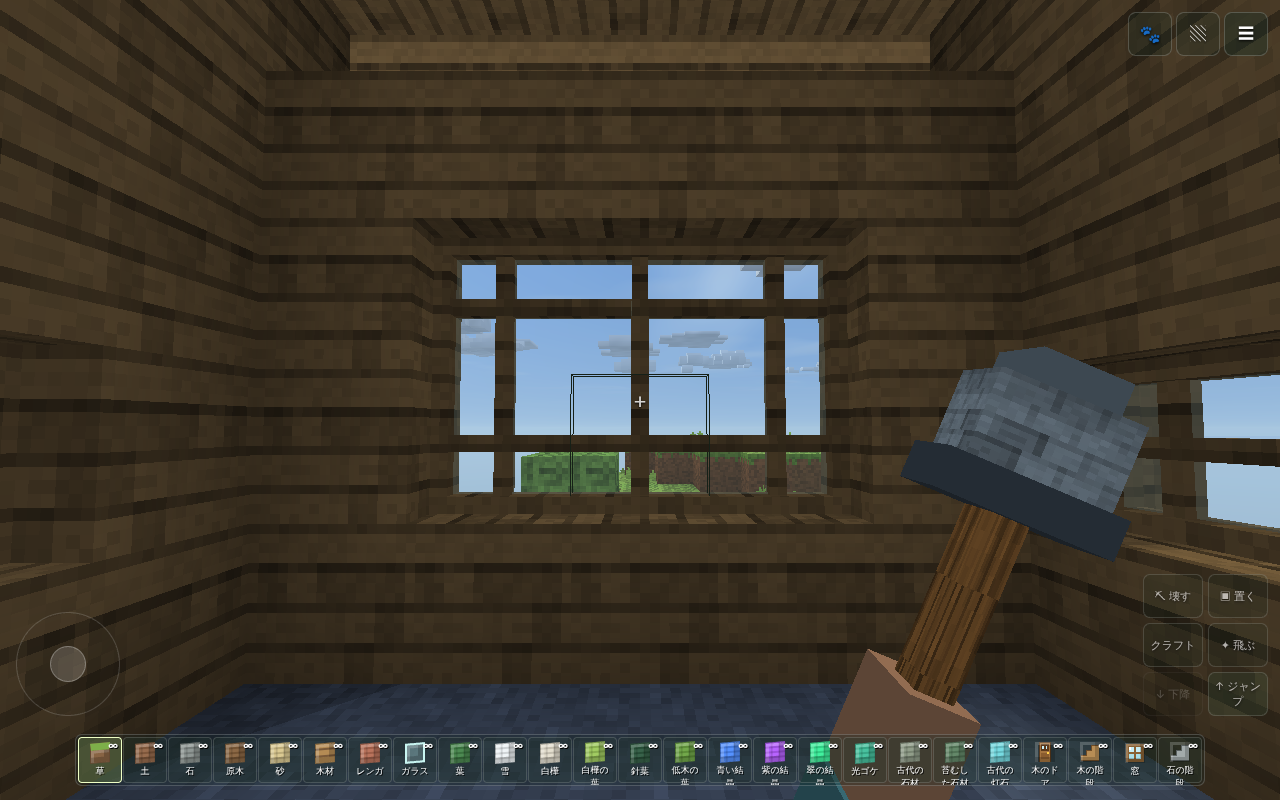
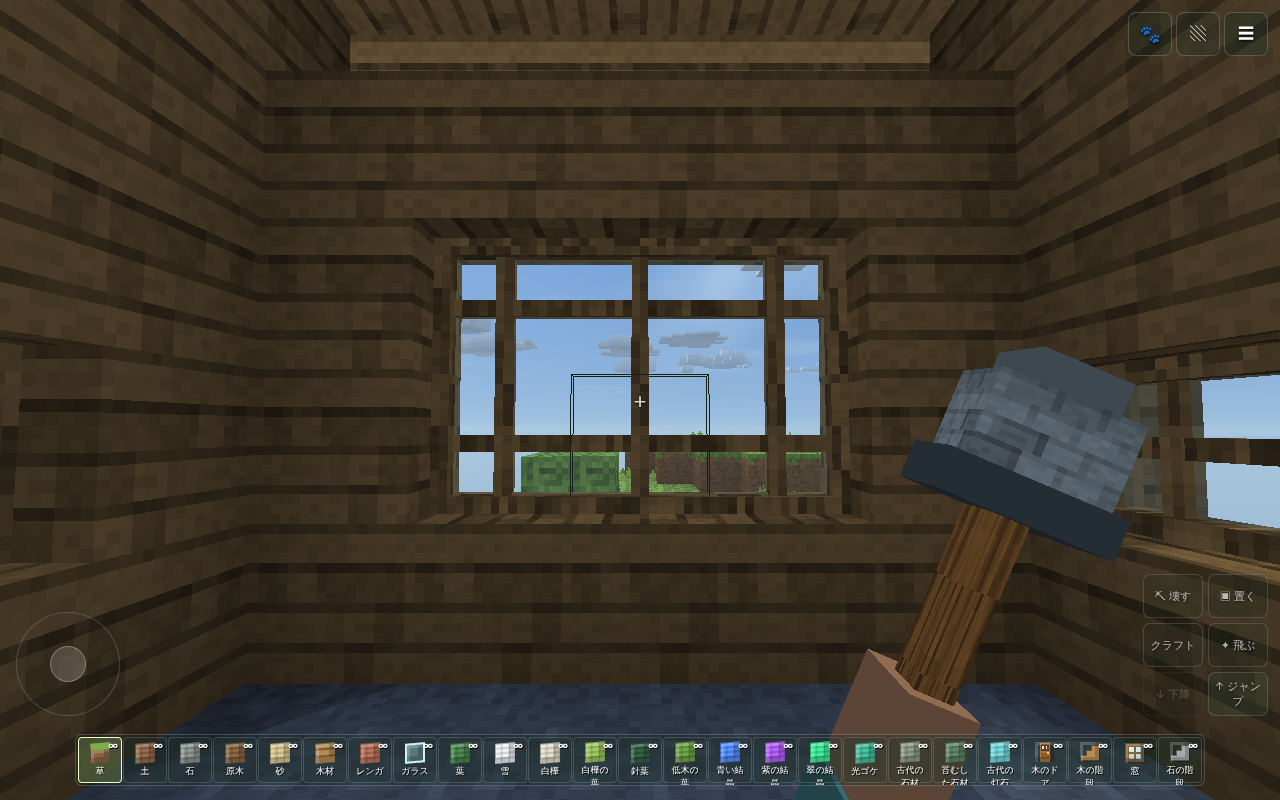
v19 レビュー対応: 設置プレビューの判定・開閉中のドアのガラス・窓の連結メッシュ
- partPreview() が placePart() と同じ判定（持ち物・プレイヤーとの重なり・ドアの床と2マスのすき間・クリエイティブ）を返す。
  判定は読むだけ（partWhy）で、世界・持ち物を変えない。placePart も一時的な set を使わない判定に変更
- 世界の変更（set の回数）でプレビューの形を作り直し、照準枠の転送は狙いか判定が変わった時だけ
- 開閉アニメ中のドアの上のガラスを、専用の小さな半透明バッファでチャンクのガラスの直後に描く
- 窓の列は下枠・上枠・横桟・ガラスを、縦の列は縦桟を1つにまとめて作る（窓512個の壁: 8034→1572面、ガラス512→32枚）
- 枠は木目の材質（4）に変更（長い部品で木材の uv が宝箱/ドアの変種を選ぶのを防ぐ）
- 回帰テスト追加。窓をまとめたことで「連結した窓はガラス1枚」に v19 テストの期待値を更新
- README 更新、スクリーンショット追加（Chromium/SwiftShader、実機未検証）

Claude-Session: https://claude.ai/code/session_01Y6tbdL5nLV1G9HMr3sUMLf

diff --git a/index.html b/index.html
@@ -273,7 +273,7 @@ const defs=[null,['草','#72a542'],['土','#916444'],['石','#89918e'],['原木'
 // ---- v19 BUILDING PARTS: doors, stairs and windows. Every orientation and state is its own block id, so the voxel bytes, the saved
 // `changes` and chunk streaming stay as they were: 41-44 wooden stairs and 45-48 stone stairs (facing 0 +z, 1 +x, 2 -z, 3 -x = the way up),
 // 49/50 windows (pane across x / across z), 51-66 doors (51 + facing*4 + open*2 + upper half). The first id of each group is the item.
-const B_STAIR_W=41,B_STAIR_S=45,B_WINDOW=49,B_DOOR=51,PART_LAST=66;
+const B_STAIR_W=41,B_STAIR_S=45,B_WINDOW=49,B_DOOR=51,PART_LAST=66;let worldStamp=0; // counts set() calls, so the placement preview notices edits
 for(let t=41;t<=PART_LAST;t++)defs[t]=t<45?['木の階段','#b78d55']:t<49?['石の階段','#89918e']:t<51?['窓','#afdce0']:['木のドア','#9a6a3c'];
 // PART: 1 stairs, 2 window, 3 door. Stairs count as cover (roofs, corner shade); thin windows and doors do not.
 const PART=new Uint8Array(256),OCC=new Uint8Array(256);for(let t=1;t<256;t++)OCC[t]=t!==9&&t!==10;
@@ -391,7 +391,7 @@ const chunkKey=(x,z)=>Math.floor(x/CHUNK)+','+Math.floor(z/CHUNK);
 const localIdx=(x,y,z)=>(y*CHUNK+(z&15))*CHUNK+(x&15);
 let lastCX=-1,lastCZ=-1,lastData=null;
 function get(x,y,z){if(!inside(x,y,z))return 0;const cx=x>>4,cz=z>>4;if(cx!==lastCX||cz!==lastCZ||!lastData){lastData=voxelChunk(cx,cz);lastCX=cx;lastCZ=cz}return lastData[localIdx(x,y,z)]}
-function set(x,y,z,t){if(!inside(x,y,z))return;const i=idx(x,y,z),key=chunkKey(x,z);if(!changes.has(i)){let list=changeIndex.get(key);if(!list)changeIndex.set(key,list=[]);list.push(i)}changes.set(i,t);const data=blocks.get(key);if(data)data[localIdx(x,y,z)]=t;if(CAVES){if(isGlowBlock(t))glowChunks.add(key);if(glowChunks.has(key))glowCache.delete(key)}}
+function set(x,y,z,t){if(!inside(x,y,z))return;worldStamp++;const i=idx(x,y,z),key=chunkKey(x,z);if(!changes.has(i)){let list=changeIndex.get(key);if(!list)changeIndex.set(key,list=[]);list.push(i)}changes.set(i,t);const data=blocks.get(key);if(data)data[localIdx(x,y,z)]=t;if(CAVES){if(isGlowBlock(t))glowChunks.add(key);if(glowChunks.has(key))glowCache.delete(key)}}
 function solid(x,y,z){const t=get(x,y,z);return t!==0&&t!==10}
 function rand(x,z){let n=Math.imul(x+seed,374761393)^Math.imul(z,668265263);n=Math.imul(n^(n>>>13),1274126177);return((n^(n>>>16))>>>0)/4294967295}
 function noise(x,z,s){const a=Math.floor(x/s),b=Math.floor(z/s);let u=x/s-a,v=z/s-b;u=u*u*(3-2*u);v=v*v*(3-2*v);return(rand(a,b)*(1-u)+rand(a+1,b)*u)*(1-v)+(rand(a,b+1)*(1-u)+rand(a+1,b+1)*u)*v}
@@ -2208,7 +2208,7 @@ void main(){vec2 q=floor(mp.xy+.001);float n=hash(q+floor(mp.z)*.13);vec3 c=col;
  c=cL.y>=0.?mix(c,vec3(1.,.98,.92),cL.y):mix(c,vec3(1.,.16,.1),-cL.y*.7);
  if(w.y<${SEA}.88){float ds=${SEA}.88-w.y;c*=exp(-WABS*(ds+(eyeF.y>${SEA}.88?ds/max(-v.y,.1):0.))*(1.-cL.w));}
  gl_FragColor=vec4(fogMix(c,rel,w.y),alpha);}`;
-let lifeProg=null,lifeU=null,lifeBuffer=null,fishBuffer=null,mainProg,waterProg,lodProg,skyProg,mainU,waterU,lodU,skyU,lodOK=false,renderReady=false,quadIndex,skyBuffer,outline,dynamicBuffer,toolBuffer,cloudBuffer,oceanTiles=[];
+let lifeProg=null,lifeU=null,lifeBuffer=null,fishBuffer=null,mainProg,waterProg,lodProg,skyProg,mainU,waterU,lodU,skyU,lodOK=false,renderReady=false,quadIndex,skyBuffer,outline,dynamicBuffer,doorGlassBuffer,toolBuffer,cloudBuffer,oceanTiles=[];
 function shader(type,src){const s=gl.createShader(type);gl.shaderSource(s,src);gl.compileShader(s);if(!gl.getShaderParameter(s,gl.COMPILE_STATUS)){const message=gl.getShaderInfoLog(s);gl.deleteShader(s);throw Error(message)}return s}
 function buildProgram(vsrc,fsrc,attribs){
  const p=gl.createProgram();let vs=null,fs=null,linked=false;
@@ -2239,7 +2239,7 @@ function initRenderer(){
  const ind=new Uint16Array(MAXQ*6);for(let i=0;i<MAXQ;i++)ind.set([i*4,i*4+1,i*4+2,i*4,i*4+2,i*4+3],i*6);
  quadIndex=gl.createBuffer();gl.bindBuffer(gl.ELEMENT_ARRAY_BUFFER,quadIndex);gl.bufferData(gl.ELEMENT_ARRAY_BUFFER,ind,gl.STATIC_DRAW);
  skyBuffer=gl.createBuffer();gl.bindBuffer(gl.ARRAY_BUFFER,skyBuffer);gl.bufferData(gl.ARRAY_BUFFER,new Float32Array([-1,-1,3,-1,-1,3]),gl.STATIC_DRAW);
- outline=gl.createBuffer();dynamicBuffer=gl.createBuffer();toolBuffer=gl.createBuffer();cloudBuffer=null;
+ outline=gl.createBuffer();dynamicBuffer=gl.createBuffer();doorGlassBuffer=gl.createBuffer();toolBuffer=gl.createBuffer();cloudBuffer=null;
  gl.enable(gl.DEPTH_TEST);
  if(lodOK)buildOcean();
  renderReady=true;
@@ -2471,19 +2471,29 @@ function emitPart(t,wx,y,wz,p,col,gb){const k=PART[t];let base=roofs[col]>y?256:
   boxQuads(opaqueW,wx,y,wz,[0,0,0,1,.5,1],mat,c,base,partCull(p,[0,0,0,1,.5,1])|join|4);
   boxQuads(opaqueW,wx,y,wz,d===0?[0,0,0,1,.5,.5]:d===1?[0,0,0,.5,.5,1]:d===2?[0,0,.5,1,.5,1]:[.5,0,0,1,.5,1],mat,c,base,59);
   boxQuads(opaqueW,wx,y,wz,B[1],mat,c,base,partCull(p,B[1])|join|8)}
- else if(k===2){const ax=t-B_WINDOW,sO=ax?PW:1,sN=ax?5:1,sP=ax?4:0,F1=2/16,P0=6/16,P1=10/16,M0=7/16,M1=9/16;
-  // A window joins the same window beside, above and below it: frames stay only on the outside, every cell keeps its cross.
-  const L=pad[p-sO]===t,R=pad[p+sO]===t,D=pad[p-PA]===t,U=pad[p+PA]===t,sL=L?0:F1,sR=R?1:1-F1,yB=D?0:F1,yT=U?1:1-F1;
-  const put=(s0,y0,q0,s1,y1,q1,sk)=>{const b=ax?[q0,y0,s0,q1,y1,s1]:[s0,y0,q0,s1,y1,q1];boxQuads(opaqueW,wx,y,wz,b,7,WFRAME,base,sk|partCull(p,b))},ends=(a,b)=>(a?1<<sN:0)|(b?1<<sP:0);
+ else if(k===2){const ax=t-B_WINDOW,sO=ax?PW:1,sN=ax?5:1,sP=ax?4:0,F1=2/16,P0=6/16,P1=10/16,M0=7/16,M1=9/16,H0=7.25/16,H1=8.75/16,ls=ax?wz&15:wx&15;
+  // A window joins the same window beside, above and below it: frames stay only on the outside. Along a row (inside this chunk) the sill,
+  // the head, the middle bar and the glass are one long piece started by the row's first cell, and a column shares one upright bar,
+  // so a wall of windows costs about as much as its outline.
+  const L=pad[p-sO]===t,R=pad[p+sO]===t,D=pad[p-PA]===t,U=pad[p+PA]===t,sL=L?0:F1,yB=D?0:F1,yT=U?1:1-F1;
+  // Frames use the wood-grain material (4): it tiles over any length, while plank uv beyond one block selects the chest/door variants.
+  const put=(s0,y0,q0,s1,y1,q1,sk,one=true)=>{const b=ax?[q0,y0,s0,q1,y1,s1]:[s0,y0,q0,s1,y1,q1];boxQuads(opaqueW,wx,y,wz,b,4,WFRAME,base,one?sk|partCull(p,b):sk)},ends=(a,b)=>(a?1<<sN:0)|(b?1<<sP:0);
+  // run(ok): how many cells from here along +s keep this window and satisfy ok(pad index); end = where the last one's piece stops
+  const run=ok=>{let n=1;while(ls+n<16&&pad[p+n*sO]===t&&ok(p+n*sO))n++;const q=p+(n-1)*sO;return{n,q,end:n-1+(pad[q+sO]===t?1:1-F1)}},any=()=>true;
   if(!L)put(0,0,P0,F1,1,P1,(D&&pad[p-PA-sO]!==t?8:0)|(U&&pad[p+PA-sO]!==t?4:0));
   if(!R)put(1-F1,0,P0,1,1,P1,(D&&pad[p-PA+sO]!==t?8:0)|(U&&pad[p+PA+sO]!==t?4:0));
-  if(!D)put(sL,0,P0,sR,F1,P1,ends(!L||pad[p-sO-PA]!==t,!R||pad[p+sO-PA]!==t));
-  if(!U)put(sL,1-F1,P0,sR,1,P1,ends(!L||pad[p-sO+PA]!==t,!R||pad[p+sO+PA]!==t));
-  // the cross bars are decoration: low quality leaves them out (switching quality re-meshes chunks with reefShafts, the same Q.water flag)
-  if(Q.water>=1){put(M0,yB,M0,M1,yT,M1,12);put(sL,M0,M0,M0,M1,M1,ends(1,1));put(M1,M0,M0,sR,M1,M1,ends(1,1))}
-  // one glass sheet in the middle plane (uv kept inside the glass edge lines, so joined panes show no seam)
-  const g=defsRGB[9],code=9+32*(ax?0:4),V=(s,yy,gu,gv)=>vert(waterW,wx+(ax?.5:s),y+yy,wz+(ax?s:.5),g[0],g[1],g[2],.04+.92*gu,.04+.92*gv,code);
-  grow(waterW,36);V(sL,yB,sL,yB);V(sL,yT,sL,yT);V(sR,yT,sR,yT);V(sR,yB,sR,yB)}
+  const start=(o)=>!L||ls===0||pad[p-sO+o]===t;
+  if(!D&&start(-PA)){const r=run(q=>pad[q-PA]!==t);put(sL,0,P0,r.end,F1,P1,ends(!L||pad[p-sO-PA]!==t,pad[r.q+sO]!==t||pad[r.q+sO-PA]!==t),r.n===1)}
+  if(!U&&start(PA)){const r=run(q=>pad[q+PA]!==t);put(sL,1-F1,P0,r.end,1,P1,ends(!L||pad[p-sO+PA]!==t,pad[r.q+sO]!==t||pad[r.q+sO+PA]!==t),r.n===1)}
+  // the cross bars are decoration: low quality leaves them out (switching quality re-meshes chunks with reefShafts, the same Q.water flag).
+  // The middle bar sits a quarter pixel behind the upright ones, so they never share a plane.
+  if(Q.water>=1){if(!D){let n=1;while(pad[p+n*PA]===t)n++;put(M0,F1,M0,M1,n-F1,M1,12)}
+   if(!L||ls===0)put(sL,M0,H0,run(any).end,M1,H1,ends(1,1))}
+  // glass: one sheet per row piece with the same openings above and below (uv kept inside the glass edge lines, so no seam shows)
+  const gk=q=>(pad[q-PA]===t?1:0)|(pad[q+PA]===t?2:0),k0=gk(p);
+  if(!L||ls===0||gk(p-sO)!==k0){const r=run(q=>gk(q)===k0),g=defsRGB[9],code=9+32*(ax?0:4),w=r.end-sL;
+   const V=(s,yy)=>vert(waterW,wx+(ax?.5:s),y+yy,wz+(ax?s:.5),g[0],g[1],g[2],.04+.92*(s-sL)/w,.04+.92*yy,code);
+   grow(waterW,36);V(sL,yB);V(sL,yT);V(r.end,yT);V(r.end,yB)}}
  else{const o=t-B_DOOR,up=o&1;if(doorHide.size&&doorHide.has(idx(wx,y-up,wz)))return;
   // the two halves meet without inner faces; the bottom rests on the floor, the top under a lintel
   const pair=pad[up?p-PA:p+PA]===t+(up?-1:1);
@@ -2820,8 +2830,8 @@ function targetLabel(h){const t=h.t;let s=defs[t][0];
 function place(rep){if(paused||photoMode||riding)return;swing=1;if(eggSp>=0){placeEgg();return}hit=ray();if(!hit)return;if(hit.t===B_CHEST){if(typeof openChest==='function')openChest(hit.x,hit.y,hit.z);return}
  // v19: 置く (right click, a tap) on a door opens or closes it; holding the button does not flap it.
  if(isDoor(hit.t)){if(rep!==true)toggleDoor(hit.x,hit.y,hit.z);return}
- const[x,y,z]=hit.prev,t=slots[selected];if(!inside(x,y,z)||y===0||get(x,y,z)&&get(x,y,z)!==10)return;if(!creative&&!(inventory[t]>0)){toast(PART[t]?`${defs[t][0]}がないよ。クラフトの「🏠 建築パーツ」でつくろう`:'素材が足りないよ。掘るか、クラフトしよう');return}
- if(PART[t]){placePart(t,x,y,z);return}
+ const[x,y,z]=hit.prev,t=slots[selected];if(!inside(x,y,z)||y===0||get(x,y,z)&&get(x,y,z)!==10)return;if(PART[t]){placePart(t,x,y,z);return}
+ if(!creative&&!(inventory[t]>0)){toast('素材が足りないよ。掘るか、クラフトしよう');return}
  const old=get(x,y,z);set(x,y,z,t);if(collides(player)){set(x,y,z,old);compactEdit(x,y,z,old);toast('自分のいる場所には置けない');return}if(!creative)inventory[t]--;edit(x,y,z,t);clickSound();refresh()}
 // ---- v19 building parts: placing, opening doors, breaking, walking up stairs and the placement preview.
 // Several cells change together (a door is two cells), then each touched chunk is rebuilt once.
@@ -2839,13 +2849,15 @@ function partCells(t,x,y,z){const d=facing4(),free=(x,y,z)=>inside(x,y,z)&&y>0&&
  if(!solid(x,y0-1,z)||PART[get(x,y0-1,z)]===3)return{cells:[[x,y0,z,B_DOOR+d*4],[x,y0+1,z,B_DOOR+d*4+1]],why:'ドアは床の上に置こう'};
  if(!free(x,y0,z)||!free(x,y0+1,z))return{cells:[[x,y0,z,B_DOOR+d*4],[x,y0+1,z,B_DOOR+d*4+1]],why:'ドアには高さ2マスのすき間がいるよ'};
  return{cells:[[x,y0,z,B_DOOR+d*4],[x,y0+1,z,B_DOOR+d*4+1]]}}
-function placePart(t,x,y,z){const p=partCells(t,x,y,z);if(p.why){toast(p.why);sfx('clank');return false}
- const old=p.cells.map(([x,y,z])=>get(x,y,z));for(const [x,y,z,id] of p.cells)set(x,y,z,id);
- if(collides(player)){p.cells.forEach(([x,y,z],i)=>{set(x,y,z,old[i]);compactEdit(x,y,z,old[i])});toast('自分のいる場所には置けない');return false}
+// The rest of what placing checks: an item in hand (creative needs none) and room for the player. It only reads, so the preview can
+// ask every frame; the cells were free (air or water), so only the new boxes can meet the player.
+function partWhy(t,cells){if(!creative&&!(inventory[t]>0))return`${defs[t][0]}がないよ。クラフトの「🏠 建築パーツ」でつくろう`;
+ for(const [x,y,z,id] of cells)if(partHit(id,x,y,z,player))return'自分のいる場所には置けない';return''}
+function placePart(t,x,y,z){const p=partCells(t,x,y,z),why=p.why||partWhy(t,p.cells);if(why){toast(why);sfx('clank');return false}
  if(!creative)inventory[t]--;editMany(p.cells);clickSound();refresh();
  if(t===B_DOOR)toast('🚪 ドアを置いた！ タップ（置く）で開け閉め・壊すで回収');return true}
 // Doors: the state lives in the block id; the swing is drawn for a quarter second while the chunk mesh leaves that door out.
-const doorAnims=[];let stepEye=0;
+const doorAnims=[],doorGlass=writer(1<<10);let stepEye=0;
 function toggleDoor(x,y,z){const t=get(x,y,z);if(!isDoor(t))return false;const o=t-B_DOOR,y0=y-(o&1),lo=B_DOOR+(o&~1),open=(o>>1)&1,nl=B_DOOR+((o&~1)^2),cells=[];
  if(get(x,y0,z)===lo)cells.push([x,y0,z,nl]);if(get(x,y0+1,z)===lo+1)cells.push([x,y0+1,z,nl+1]);
  // the panel never swings into the player (closing in the doorway, or opening onto someone beside the hinge)
@@ -2856,8 +2868,8 @@ function toggleDoor(x,y,z){const t=get(x,y,z);if(!isDoor(t))return false;const o
  editMany(cells);sfx(open?'doorShut':'door',{x:x+.5,y:y0+1,z:z+.5});return true}
 function doorTick(dt){for(let i=doorAnims.length-1;i>=0;i--){const a=doorAnims[i];a.t+=dt/.25;
  if(a.t>=1||!isDoor(get(a.x,a.y,a.z))){doorAnims.splice(i,1);doorHide.delete(a.key);const cx=a.x>>4,cz=a.z>>4;if(chunks.has(cx+','+cz))rebuild(cx,cz)}}}
-function drawDoors(w){for(const a of doorAnims){const k=Math.min(1,a.t),e=k*k*(3-2*k),ang=a.from+(a.to-a.from)*e;
- emitDoor(w,null,a.x,a.y,a.z,a.d,ang,0,a.base,a.up?4:0);if(a.up)emitDoor(w,null,a.x,a.y+1,a.z,a.d,ang,1,a.base,8)}}
+function drawDoors(w,gw){for(const a of doorAnims){const k=Math.min(1,a.t),e=k*k*(3-2*k),ang=a.from+(a.to-a.from)*e;
+ emitDoor(w,null,a.x,a.y,a.z,a.d,ang,0,a.base,a.up?4:0);if(a.up)emitDoor(w,gw,a.x,a.y+1,a.z,a.d,ang,1,a.base,8)}}
 // A tap picks the door it touches; an open door is seen edge-on, so a tap anywhere in its doorway (within reach) closes it.
 function tapDoor(d){const h=ray(d);if(h&&isDoor(h.t))return h;const lim=h?h.dist+.05:6;
  for(let s=.1;s<lim;s+=.1){const x=Math.floor(player.x+d[0]*s),y=Math.floor(player.y+1.62+d[1]*s),z=Math.floor(player.z+d[2]*s),t=get(x,y,z);if(isDoor(t)&&(t-B_DOOR)&2)return{x,y,z,t}}return null}
@@ -2872,10 +2884,13 @@ function stepDown(){probe.x=player.x;probe.z=player.z;probe.y=player.y-.02;if(co
  const low=Math.floor((player.y-.002)*2)/2;if(player.y-low>.55)return;probe.y=low;if(collides(probe))return;probe.y=low-.02;if(!collides(probe))return;
  stepEye=Math.min(.6,stepEye+player.y-low);player.y=low}
 // Preview: the shape about to be placed, outlined in warm yellow (red when it cannot go there). Recomputed only when the aim changes.
-let previewKey=-1,preview=null;
+// It gives placePart()'s verdict: the shape (partCells, cached until the aim or the world changes) plus partWhy() every frame.
+let previewKey=-1,previewStamp=-1,preview=null,previewBad=null;
 function partPreview(){const t=slots[selected];if(!hit||!PART[t]||eggSp>=0||isDoor(hit.t)||hit.t===B_CHEST){previewKey=-1;return null}
- const [x,y,z]=hit.prev;if(!inside(x,y,z)||get(x,y,z)&&get(x,y,z)!==10){previewKey=-1;return null}
- const key=((idx(x,y,z)*4+facing4())*4+PART[t])*2+(t===B_STAIR_S?1:0);if(key!==previewKey){previewKey=key;preview=partCells(t,x,y,z)}return preview}
+ const [x,y,z]=hit.prev;if(!inside(x,y,z)||y===0||get(x,y,z)&&get(x,y,z)!==10){previewKey=-1;return null}
+ const key=((idx(x,y,z)*4+facing4())*4+PART[t])*2+(t===B_STAIR_S?1:0);if(key!==previewKey||worldStamp!==previewStamp){previewKey=key;previewStamp=worldStamp;preview=partCells(t,x,y,z)}
+ const why=preview.why||partWhy(t,preview.cells);if(!why)return preview;
+ if(!previewBad||previewBad.cells!==preview.cells||previewBad.why!==why)previewBad={cells:preview.cells,why};return previewBad}
 function jump(){if(flying||photoMode||riding)return;if(!paused&&(ground||get(Math.floor(player.x),Math.floor(player.y+.8),Math.floor(player.z))===10)){vy=7;ground=false}}
 function toggleFlight(){if(paused||suspended||photoMode)return;if(riding){toast('🐉 ドラゴンに乗っている間は、↑↓で高さを変えよう');return}if(gameMode==='survival'){toast('サバイバルでは飛べないよ（ピースフル・クリエイティブで飛べる）');return}flying=!flying;vy=0;ground=false;riseHeld=descendHeld=false;refresh();save();toast(flying?'飛行：↑で上昇・↓で下降 / PC：Space・Q':'飛行を終了した')}
 function snapshot(){return{version:1,worldWidth:W,worldHeight:H,terrainVersion,seed,inventory,creative,flying,changes:[...changes],player:{...player},yaw,pitch,dayTime,life:lifeSave(),settings:{qualityName,hudMinimal,hudDetails,lifeVoices,selected:selected<8?selected:0,hotbar:selected,eggSp},gameMode,health,items:{...items},defeated,...(RUINS?{adventure}: {}),...(dragon.stage!=='none'||dragon.warmth>0?{dragon:dragonSave()}:{})}}
@@ -3047,10 +3062,10 @@ function animateWorld(dt){swing=Math.max(0,swing-dt*3.5);const moving=Math.hypot
 for(const p of particles){p.life-=dt;p.vy-=dt*8;p.x+=p.vx*dt;p.y+=p.vy*dt;p.z+=p.vz*dt}for(let i=particles.length-1;i>=0;i--)if(particles[i].life<=0)particles.splice(i,1);
 updateLife(dt,player);updateSurvival(dt);dragonTick(dt);if(doorAnims.length)doorTick(dt);
 }
-function drawWorldDetails(){const a=dyn;a.n=0;
+function drawWorldDetails(){const a=dyn;a.n=0;doorGlass.n=0;
 for(const p of particles)cuboid(a,p.x,p.y,p.z,.09,.09,.09,p.color);
 if(dig&&dig.p>.08)drawCrack(a);
-if(doorAnims.length)drawDoors(a);
+if(doorAnims.length)drawDoors(a,doorGlass);
 drawRuinEffects(a);
 if(riding&&pet)drawRider(a);
 if(arrows.length||gameMode==='survival')drawCombat(a);
@@ -4259,15 +4274,16 @@ cuboid(a,-.055,.01,.0,.11,.62,.1,w.blade,3,transform);cuboid(a,-.025,.01,.1,.05,
 else{cuboid(a,-.045,-.30,.02,.09,.66,.09,'#93612e',4,transform);
 cuboid(a,-.20,.28,-.02,.40,.09,.14,'#48545a',0,transform);cuboid(a,-.16,.37,-.02,.32,.19,.14,'#9aa8aa',3,transform);cuboid(a,-.10,.56,-.02,.20,.07,.14,'#79888d',0,transform)}
 gl.clear(gl.DEPTH_BUFFER_BIT);drawData(toolBuffer,a)}
-const outlineData=new Float32Array(432*3);let outlineKey=-1,outlineKey2=-1,outlineN=48;
+const outlineData=new Float32Array(432*3);let outlineKey=-1,outlinePv=null,outlineN=48;
 function outlineBox(n,b,ox,oy,oz,r,g,bl){for(const f of faces)for(let i=0;i<4;i++)for(const k of [i,(i+1)%4]){const v=f.v[k];
  outlineData[n++]=ox+(v[0]?b[3]+.0035:b[0]-.0035);outlineData[n++]=oy+(v[1]?b[4]+.0035:b[1]-.0035);outlineData[n++]=oz+(v[2]?b[5]+.0035:b[2]-.0035);outlineData[n++]=r;outlineData[n++]=g;outlineData[n++]=bl;outlineData[n++]=0;outlineData[n++]=0;outlineData[n++]=224}return n}
 const UNIT_BOX=[0,0,0,1,1,1],PART_BOUND=[];for(let t=41;t<=PART_LAST;t++){const l=PART_BOX[t];PART_BOUND[t]=[0,1,2].map(i=>Math.min(...l.map(b=>b[i]))).concat([3,4,5].map(i=>Math.max(...l.map(b=>b[i]))))}
 // The aimed block's outline (a part shows its own shape), plus the v19 placement preview when a building part is in hand.
-function drawOutline(){if(!hit)return;const pv=partPreview(),key=idx(hit.x,hit.y,hit.z)*64+(PART[hit.t]?hit.t-40:0),key2=pv?previewKey:-1;bind(outline);
- if(key!==outlineKey||key2!==outlineKey2){let n=outlineBox(0,PART[hit.t]?PART_BOUND[hit.t]:UNIT_BOX,hit.x,hit.y,hit.z,.10,.14,.10);
+function drawOutline(){if(!hit)return;const pv=partPreview(),key=idx(hit.x,hit.y,hit.z)*64+(PART[hit.t]?hit.t-40:0);bind(outline);
+ // a new preview object means a new shape or verdict (they are only rebuilt when something changed)
+ if(key!==outlineKey||pv!==outlinePv){let n=outlineBox(0,PART[hit.t]?PART_BOUND[hit.t]:UNIT_BOX,hit.x,hit.y,hit.z,.10,.14,.10);
   if(pv){const ok=!pv.why;for(const [x,y,z,id] of pv.cells)for(const b of PART_BOX[id])if(n<outlineData.length)n=outlineBox(n,b,x,y,z,ok?.98:.95,ok?.9:.3,ok?.45:.25)}
-  gl.bufferData(gl.ARRAY_BUFFER,outlineData.subarray(0,n),gl.DYNAMIC_DRAW);outlineKey=key;outlineKey2=key2;outlineN=n/9}perfDraw();gl.drawArrays(gl.LINES,0,outlineN)}
+  gl.bufferData(gl.ARRAY_BUFFER,outlineData.subarray(0,n),gl.DYNAMIC_DRAW);outlineKey=key;outlinePv=pv;outlineN=n/9}perfDraw();gl.drawArrays(gl.LINES,0,outlineN)}
 function moveAxis(axis,d){
  const steps=Math.max(1,Math.ceil(Math.abs(d)/.18)),step=d/steps;
  for(let i=0;i<steps;i++){const old=player[axis];player[axis]+=step;if(collides(player)){player[axis]=old;return false}}
@@ -4363,6 +4379,8 @@ function render(cam,titleOpen,w,h){
  visible.sort((a,b)=>((b.cx*CHUNK+8-cam.x)**2+(b.cz*CHUNK+8-cam.z)**2)-((a.cx*CHUNK+8-cam.x)**2+(a.cz*CHUNK+8-cam.z)**2));
  if(waterProg){useProgram(waterProg,4);setEnv(waterU,env,fog);setView(waterU,cam,aspect,.1,(Q.near+3)*CHUNK*1.5+H);gl.uniform3f(waterU.eye,cam.x,cam.y,cam.z);gl.uniform3f(waterU.eyeF,cam.x,cam.y,cam.z)}
  for(const ch of visible)if(ch.waterQuads)drawQuads(ch.water,ch.waterQuads,bind,36);
+ // v19: the window of a door that is swinging (its chunk mesh leaves that door out for a quarter second)
+ if(doorGlass.n)drawData(doorGlassBuffer,doorGlass);
  if(waterProg){useProgram(mainProg,4)}
  gl.depthMask(true);gl.disable(gl.BLEND);
  if(!titleOpen&&!photoMode&&!riding){hit=ray();drawOutline();drawTool()}else hit=null;
